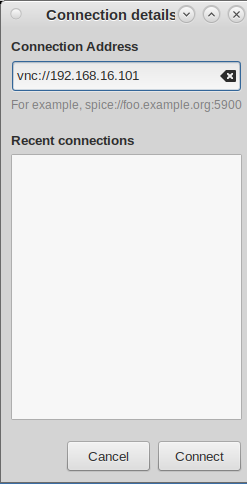
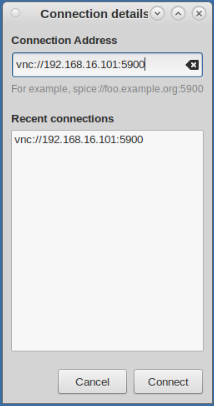
Add robot computer access documentation

Changed region(s): [[0.0, 0.0, 1.0, 1.0]]

diff --git a/README.md b/README.md
@@ -105,11 +105,9 @@ X2Go sessions can be paused or suspended from the X2Go client window. Multiple s
   * These folders will then appear on the server under `/media/disk/<share_name>`.
     ![x2go_server](docs/imgs/x2go_automount.png)
 
-## ~~Robot computer remote desktop access~~
+## Robot computer remote desktop access
 
-* *Currently unavailable* (TODO network cable unplugged?)
-
-* In an X2Go session go to *Applications>Internet>Remote Viewer>Connection Address* and enter [`vnc://192.168.16.101`](vnc://192.168.16.101).
+* In an X2Go session go to *Applications>Internet>Remote Viewer>Connection Address* and enter [`vnc://192.168.16.101:5900`](vnc://192.168.16.101:5900).
 
   ![remote_viewer](docs/imgs/remote_viewer.png)
 
@@ -198,4 +196,4 @@ Read the `ssh` login message (`cat /etc/motd`) for server status and updates. [O
 
 ## Administrators
 
-See additional documentation in [`docs/README.md`](docs/README.md).
+For additional documentation see [`docs/README.md`](docs/README.md).
